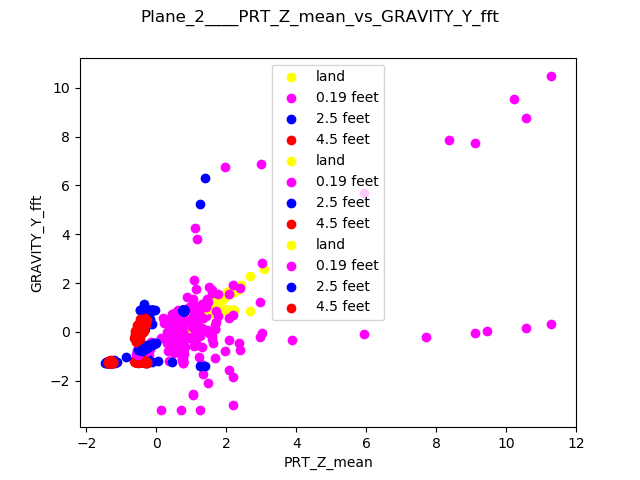
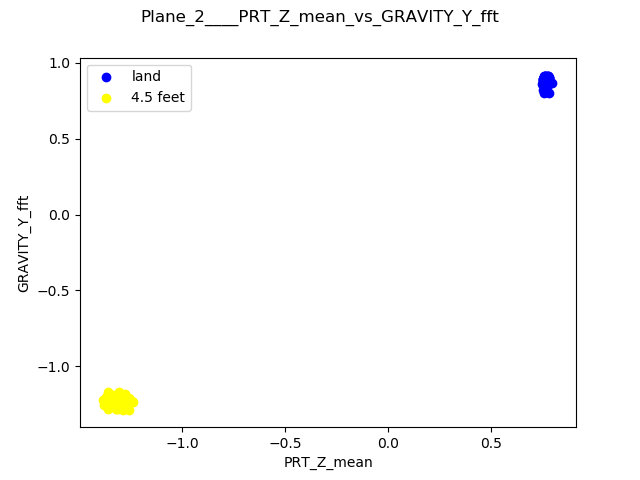
Two Feature Plots fixed

diff --git a/code/models/Support Vector Machines/scatter_plot_svm.py b/code/models/Support Vector Machines/scatter_plot_svm.py
@@ -7,32 +7,28 @@ import os
 
 feature_indices = []
 top_features = []
+plane_wise_class = { 0 : ['a','b'], 1 : ['a', 'c'], 2: ['a','d'], 3 : ['b', 'c'], 4 : ['b', 'd'], 5 : ['c', 'd'] }
+class_depth = {'a' : 'land', 'b' : '0.19 feet', 'c' : '2.5 feet', 'd' : '4.5 feet' }
+class_wise_color = {'a' : 'blue', 'b' : 'green', 'c' : 'red', 'd': 'yellow'}
 for plane in sorted_for_each_plane.keys():
     top_features = sorted_for_each_plane[plane][:2]
     feature_indices = [feature_names.index(f[0]) for f in top_features]
 
     #example:- top_features = [['LINEAR_ACCELERATION_Y_median', 0.3054192514922668], ['GRAVITY_Y_mean', 0.27736765414504283]]
-    class_0 =    [[X[i,feature_indices[0]],X[i,feature_indices[1]]] for i in range(0,len(X)) if Y[i] == 'a']
-    class_0_19 = [[X[i,feature_indices[0]],X[i,feature_indices[1]]] for i in range(0,len(X)) if Y[i] == 'b']
-    class_2_5 =  [[X[i,feature_indices[0]],X[i,feature_indices[1]]] for i in range(0,len(X)) if Y[i] == 'c']
-    class_4_5 =  [[X[i,feature_indices[0]],X[i,feature_indices[1]]] for i in range(0,len(X)) if Y[i] == 'd']
+    class_1 = [[X[i,feature_indices[0]],X[i,feature_indices[1]]] for i in range(0,len(X)) if Y[i] == plane_wise_class[plane][0]]
+    class_2 = [[X[i,feature_indices[0]],X[i,feature_indices[1]]] for i in range(0,len(X)) if Y[i] == plane_wise_class[plane][1]]
 
     random_indices = random.sample(range(139), 100)
     #print(random_indices)
-    class_0_feature_0 =    [class_0[i][0] for i in random_indices]
-    class_0_feature_1 =    [class_0[i][1] for i in random_indices]
-    class_0_19_feature_0 = [class_0_19[i][0] for i in random_indices]
-    class_0_19_feature_1 = [class_0_19[i][1] for i in random_indices]
-    class_2_5_feature_0 =  [class_2_5[i][0] for i in random_indices]
-    class_2_5_feature_1 =  [class_2_5[i][1] for i in random_indices]
-    class_4_5_feature_0 =  [class_4_5[i][0] for i in random_indices]
-    class_4_5_feature_1 =  [class_4_5[i][1] for i in random_indices]
+    class_1_feature_0 = [class_1[i][0] for i in random_indices]
+    class_1_feature_1 = [class_1[i][1] for i in random_indices]
+    class_2_feature_0 = [class_2[i][0] for i in random_indices]
+    class_2_feature_1 = [class_2[i][1] for i in random_indices]
+
     
     
-    plt.scatter(class_0_feature_0, class_0_feature_1, color = 'yellow', label = 'land')
-    plt.scatter(class_0_19_feature_0, class_0_19_feature_1, color = 'magenta', label = '0.19 feet')
-    plt.scatter(class_2_5_feature_0, class_2_5_feature_1, color = 'blue', label = '2.5 feet')
-    plt.scatter(class_4_5_feature_0, class_4_5_feature_1, color = 'red', label = '4.5 feet')
+    plt.scatter(class_1_feature_0, class_1_feature_1, color = class_wise_color[plane_wise_class[plane][0]], label = class_depth[plane_wise_class[plane][0]])
+    plt.scatter(class_2_feature_0, class_2_feature_1, color = class_wise_color[plane_wise_class[plane][1]], label = class_depth[plane_wise_class[plane][1]])
     plt.legend()
 
     title = "Plane_" + str(plane) + "____" + top_features[0][0]+"_vs_" + top_features[1][0]
@@ -41,5 +37,5 @@ for plane in sorted_for_each_plane.keys():
     plt.xlabel(top_features[0][0])
     plt.ylabel(top_features[1][0])
     plt.savefig(path + ".png")
-    #plt.show()
+    plt.show()
     

diff --git a/Code/Models/Neural Nets/main.py b/Code/Models/Neural Nets/main.py
@@ -18,11 +18,12 @@ from keras.layers import Dense
 from keras.wrappers.scikit_learn import KerasClassifier,KerasRegressor
 from keras.utils import np_utils
 import re
+import os
 
 
 #%%
 #reading the dataset
-df = pd.read_csv("C:\Honey\projects\Research gait\\Flood Detection using Gait\\flood-detection-using-gait\data\Rec interval _ 0.1 data\RAW\Merged\Merged-all-rec0_1-JAN19_reduced.csv")
+df = pd.read_csv(os.path.join("data", "windowed", "window_50_stride_25_data.csv"))
 df = df.dropna(axis=1)
 #print(df.columns.values)
 
@@ -145,7 +146,7 @@ results = model_selection.cross_val_score(estimator, X_scaled, dummy_y, cv=kfold
 print("Larger: %.2f (%.2f) MSE" % (results.mean(), results.std()))
 """
 
-estimator = KerasClassifier(build_fn=larger_model, epochs=50, batch_size=100,verbose=1)
+estimator = KerasClassifier(build_fn=larger_model, epochs=50, batch_size=16,verbose=1)
 kfold = KFold(n_splits=15, shuffle=True, random_state=seed)
 results = model_selection.cross_val_score(estimator, X_norm , dummy_y, cv=kfold)
 print("Baseline: %.2f%% (%.2f%%)" % (results.mean()*100, results.std()*100))

diff --git a/Code/Models/Support Vector Machines/SVM_Classifier_Script.py b/Code/Models/Support Vector Machines/SVM_Classifier_Script.py
@@ -12,9 +12,9 @@ import os
 
 #Importing dataset.
 
-os.chdir(r'..\..\..\data\windowed')
-dataset  = pd.read_csv('window_50_stride_25_data.csv')# Caution uses merged window. If you wish to use the same configuration, please set random_state to 1
-os.chdir(r'..\..\Code\Models\Support Vector Machines')
+#os.chdir(r'..\..\..\data\windowed')
+dataset  = pd.read_csv(os.path.join('data', 'windowed', 'window_50_stride_25_data.csv'))# Caution uses merged window. If you wish to use the same configuration, please set random_state to 1
+#os.chdir(r'..\..\Code\Models\Support Vector Machines')
 
 #Removing some unwanted features.
 dataset = dataset.drop([col for col in dataset.columns if  not col.find('MAGNETIC')], axis = 1)
@@ -216,4 +216,4 @@ for plane in range(len(coeffs[:,0])):
 
     sorted_for_each_plane[plane] = sorted_per_plane
 
-#print(sorted_for_each_plane)
+print(type(sorted_for_each_plane[0]))
